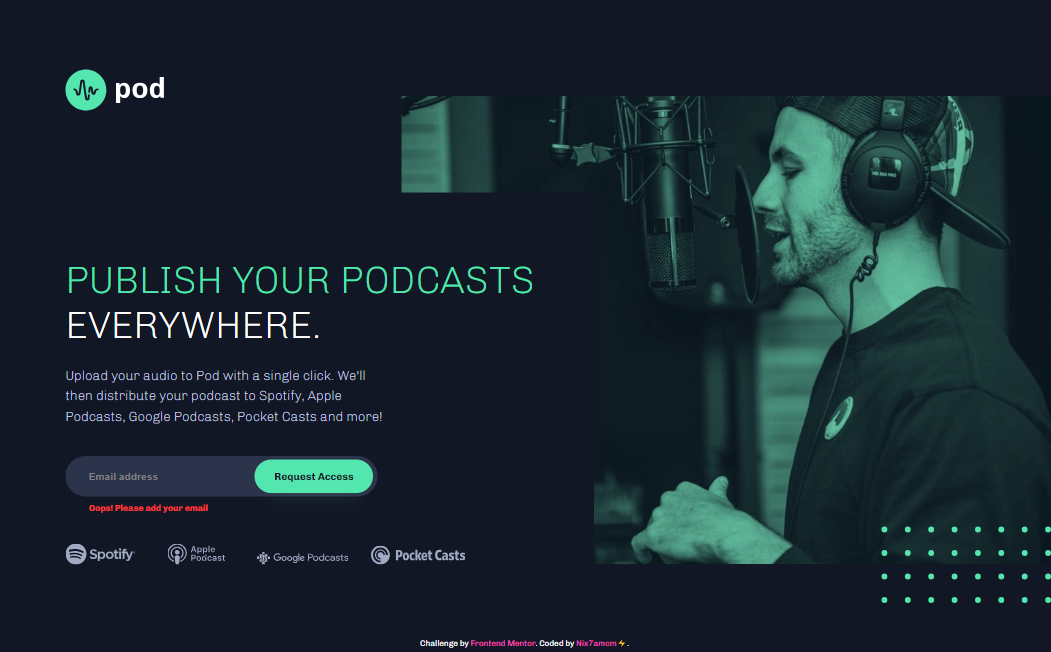
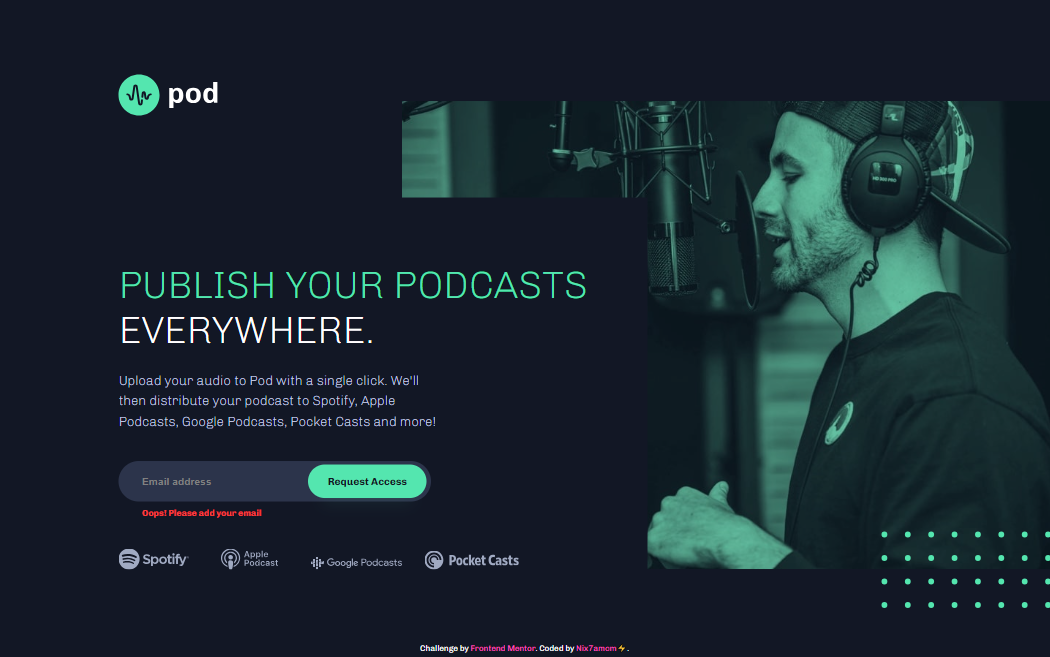
🔧 Tidy up media queries and CSS
- Fix container and body padding and media queries to align better with design and responsiveness
- Update solution images with new screenshots
- Tidy up some general CSS code structure

diff --git a/css/style.css b/css/style.css
@@ -40,15 +40,11 @@ body {
   min-height: 100vh;
   display: flex;
   flex-direction: column;
-
   position: relative;
   padding-top: clamp(3.125rem, -0.589rem + 7.738vw, 6.375rem);
-  /* ::::: padding-left added to container to allow footer to be centered */
-  /* padding-left: clamp(2.5rem, -1.214rem + 7.738vw, 5.75rem); */
-
+  /* ----- (padding-left added to container to allow footer to be centered) */
   background-color: var(--bg-body);
   color: var(--fc-body);
-
   font-family: var(--ff-body);
   font-size: var(--fs-body);
   font-style: var(--fstyle-body);
@@ -75,8 +71,6 @@ body {
 @media all and (min-width: 480px) and (max-width: 768px) {
   body {
     padding-top: 3.125rem;
-    /* padding-left: 2.4375rem; */
-
     font-size: var(--fs-body-tab);
     font-weight: var(--fw-body-tab);
     line-height: var(--lh-body-tab);
@@ -86,9 +80,8 @@ body {
 /* ))) MOBILE LANDSCAPE AND BELOW ((( */
 @media all and (max-width: 480px) {
   body {
-    padding-inline: clamp(0.625rem, -1.125rem + 8.75vw, 1.5rem);
+    padding-inline: 1.5rem;
     padding-top: 3.875rem;
-
     font-size: var(--fs-body-mob);
     line-height: var(--lh-body-mob);
     background-size: cover;
@@ -110,20 +103,34 @@ body {
   }
 }
 
+/* ))) MOBILE AND BELOW ((( */
+@media all and (max-width: 375px) {
+  body {
+    padding-inline: clamp(0.625rem, -2.5rem + 13.333vw, 1.5rem);
+  }
+}
+
 
 /* ===== CONTAINER ===== */
 
-/* >>> Added container to exclude header & main from footer */
+/* >>> added container to exclude header & main from footer */
 .container {
   /* ----- margin between footer & container */
   margin-bottom: 3.125rem;
 }
 
-/* ))) ABOVE MOBILE LANDSCAPE ((( */
-@media all and (min-width: 480px) {
+/*>>> padding added to left of container instead of body (490px and above, then switches to body as everything is then centered) to allow footer to be centered to body:  */
+/* ))) TABLET AND ABOVE ((( */
+@media all and (min-width: 768px) {
   .container {
-    padding-left: clamp(0.625rem, -1.938rem + 8.542vw, 5.75rem);
-    /*::::: padding added to left of container instead of body to allow footer to be centered to body */
+    padding-left: clamp(2.438rem, -6.563rem + 18.75vw, 10.313rem);
+  }
+}
+
+/* ))) MOBILE LANDSCAPE & TABLET ((( */
+@media all and (min-width: 480px) and (max-width: 768px) {
+  .container {
+    padding-left: clamp(1.5rem, -0.063rem + 5.208vw, 2.438rem);
   }
 }
 
@@ -149,7 +156,6 @@ main {
   position: relative;
   margin: auto;
   padding-top: 8.25rem;
-  /*<---custom (131 figma top mask overlap)*/
   transform: translateY(-1.75rem);
 }
 
@@ -170,7 +176,7 @@ main::before {
   main {
     background: none;
     padding-top: 9.0625rem;
-    /*<---custom (103 figma) */
+    /* ----- padding-top custom (103 figma) */
     transform: unset;
   }
 
@@ -184,7 +190,6 @@ main::before {
 @media all and (max-width: 768px) {
   main {
     padding-top: 9.375rem;
-    /*<---custom (152 figma) */
   }
 }
 
@@ -209,7 +214,6 @@ main::before {
 /* ))) TABLET ((( */
 @media all and (max-width: 768px) {
   .content-wrap {
-    /* width: 39.6875rem; */
     width: clamp(29.344rem, 12.104rem + 57.465vw, 39.688rem);
   }
 }
@@ -271,7 +275,6 @@ h1 span {
 p {
   width: 27.8125rem;
   margin-block: 1.5rem 2.5rem;
-
   color: var(--fc-p);
   font-family: var(--ff-p);
   font-size: var(--fs-p);
@@ -293,7 +296,6 @@ p {
   p {
     width: 100%;
     margin-block: 1rem 2.125rem;
-
     font-size: var(--fs-p-mob);
     line-height: var(--lh-p-mob);
   }
@@ -407,11 +409,9 @@ form {
 .form--btn {
   width: 10.125rem;
   height: 2.875rem;
-
   background-color: var(--bg-btn);
   box-shadow: var(--bxs-btn);
   border-radius: var(--bdrs-btn);
-
   color: var(--fc-btn);
   font-family: var(--ff-btn);
   font-size: var(--fs-btn);
@@ -434,7 +434,6 @@ form {
     width: 100%;
     height: 2.625rem;
     margin-bottom: .5rem;
-
     font-size: var(--fs-btn-mob);
     line-height: var(--lh-btn-mob);
   }
@@ -615,7 +614,7 @@ form {
 }
 
 /* ))) TABLET LANDSCAPE ((( */
-/* ::::: to remove dots to prevent overlap into content and gap from below for better design UX (change below tablet MQ max-width to 768px) */
+/* ----- to remove dots to prevent overlap into content and gap from below for better design UX (and change below tablet MQ max-width to 768px) */
 /* @media all and (min-width: 769px) and (max-width: 1024px) {
   .dots-wrap {
     display: none;
@@ -641,7 +640,7 @@ form {
 
 /* ===== FOOTER ===== */
 
-footer {  
+footer {
   margin-top: auto;
   color: var(--fc-footer);
   font-size: var(--fs-footer);
